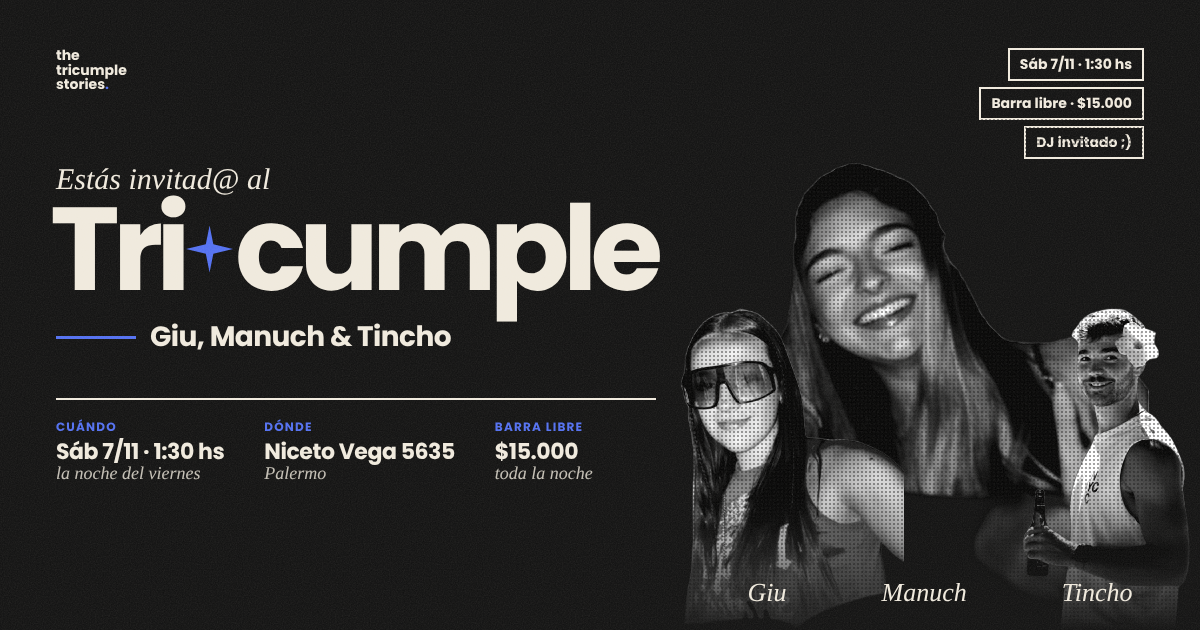
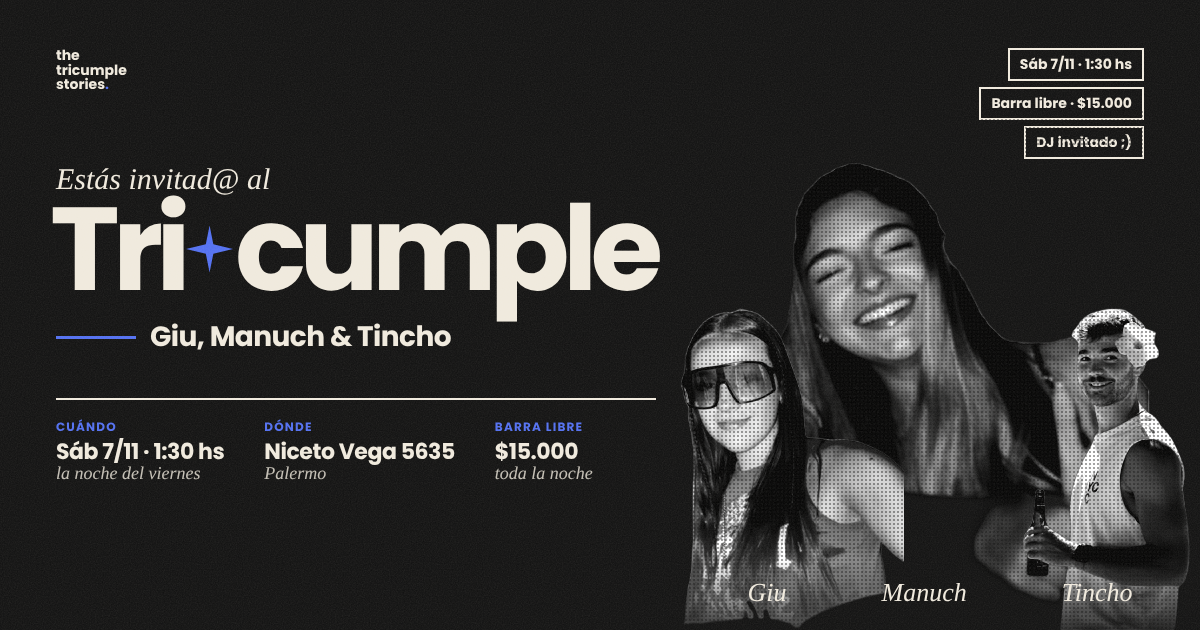
Admin con mensajes de error, fotos alineadas, vista previa

Changed region(s): [[0.555, 0.8143, 0.7708, 0.9952], [0.8325, 0.8143, 0.9867, 1.0]]

diff --git a/src/styles.css b/src/styles.css
@@ -230,14 +230,14 @@
 .night-cut { position: absolute; bottom: 0; height: 92%; width: auto; filter: grayscale(1) contrast(1.35) brightness(1.05); }
 .night-cut-a { left: 0; height: 80%; z-index: 3; }
 .night-cut-c { right: 0; height: 80%; z-index: 3; }
-.night-cut-b { left: 50%; bottom: 0; transform: translateX(-50%); height: 96%; z-index: 1; -webkit-mask-image: linear-gradient(to bottom, #000 72%, transparent 100%); mask-image: linear-gradient(to bottom, #000 72%, transparent 100%); }
+.night-cut-b { left: 50%; bottom: 0; transform: translateX(-50%); height: 96%; z-index: 1; }
 .night-halftone {
   position: absolute; inset: 0; z-index: 4;
   background-image: radial-gradient(circle, var(--night-black) 0.85px, transparent 1.25px);
   background-size: 4px 4px;
   opacity: .4; mix-blend-mode: multiply;
 }
-.night-cast::after { content: ""; position: absolute; inset: 0; z-index: 5; background: linear-gradient(to bottom, var(--night-black) 0%, transparent 18%, transparent 80%, var(--night-black) 100%); }
+.night-cast::after { content: ""; position: absolute; inset: 0; z-index: 5; background: linear-gradient(to bottom, var(--night-black) 0%, transparent 18%, transparent 92%, var(--night-black) 100%); }
 
 .night-rsvp { position: relative; z-index: 2; width: calc(100% - 40px); max-width: 460px; margin: -24px auto 0; padding: 26px 22px 24px; display: flex; flex-direction: column; gap: 12px; background: #1b1b1b; border: 1.5px solid rgba(239,233,220,.14); border-radius: 2rem; box-shadow: 0 24px 60px rgba(0,0,0,.55); }
 .night-count { margin-top: 18px; display: flex; align-items: center; gap: 14px; animation: night-in .8s .6s ease-out both; }
